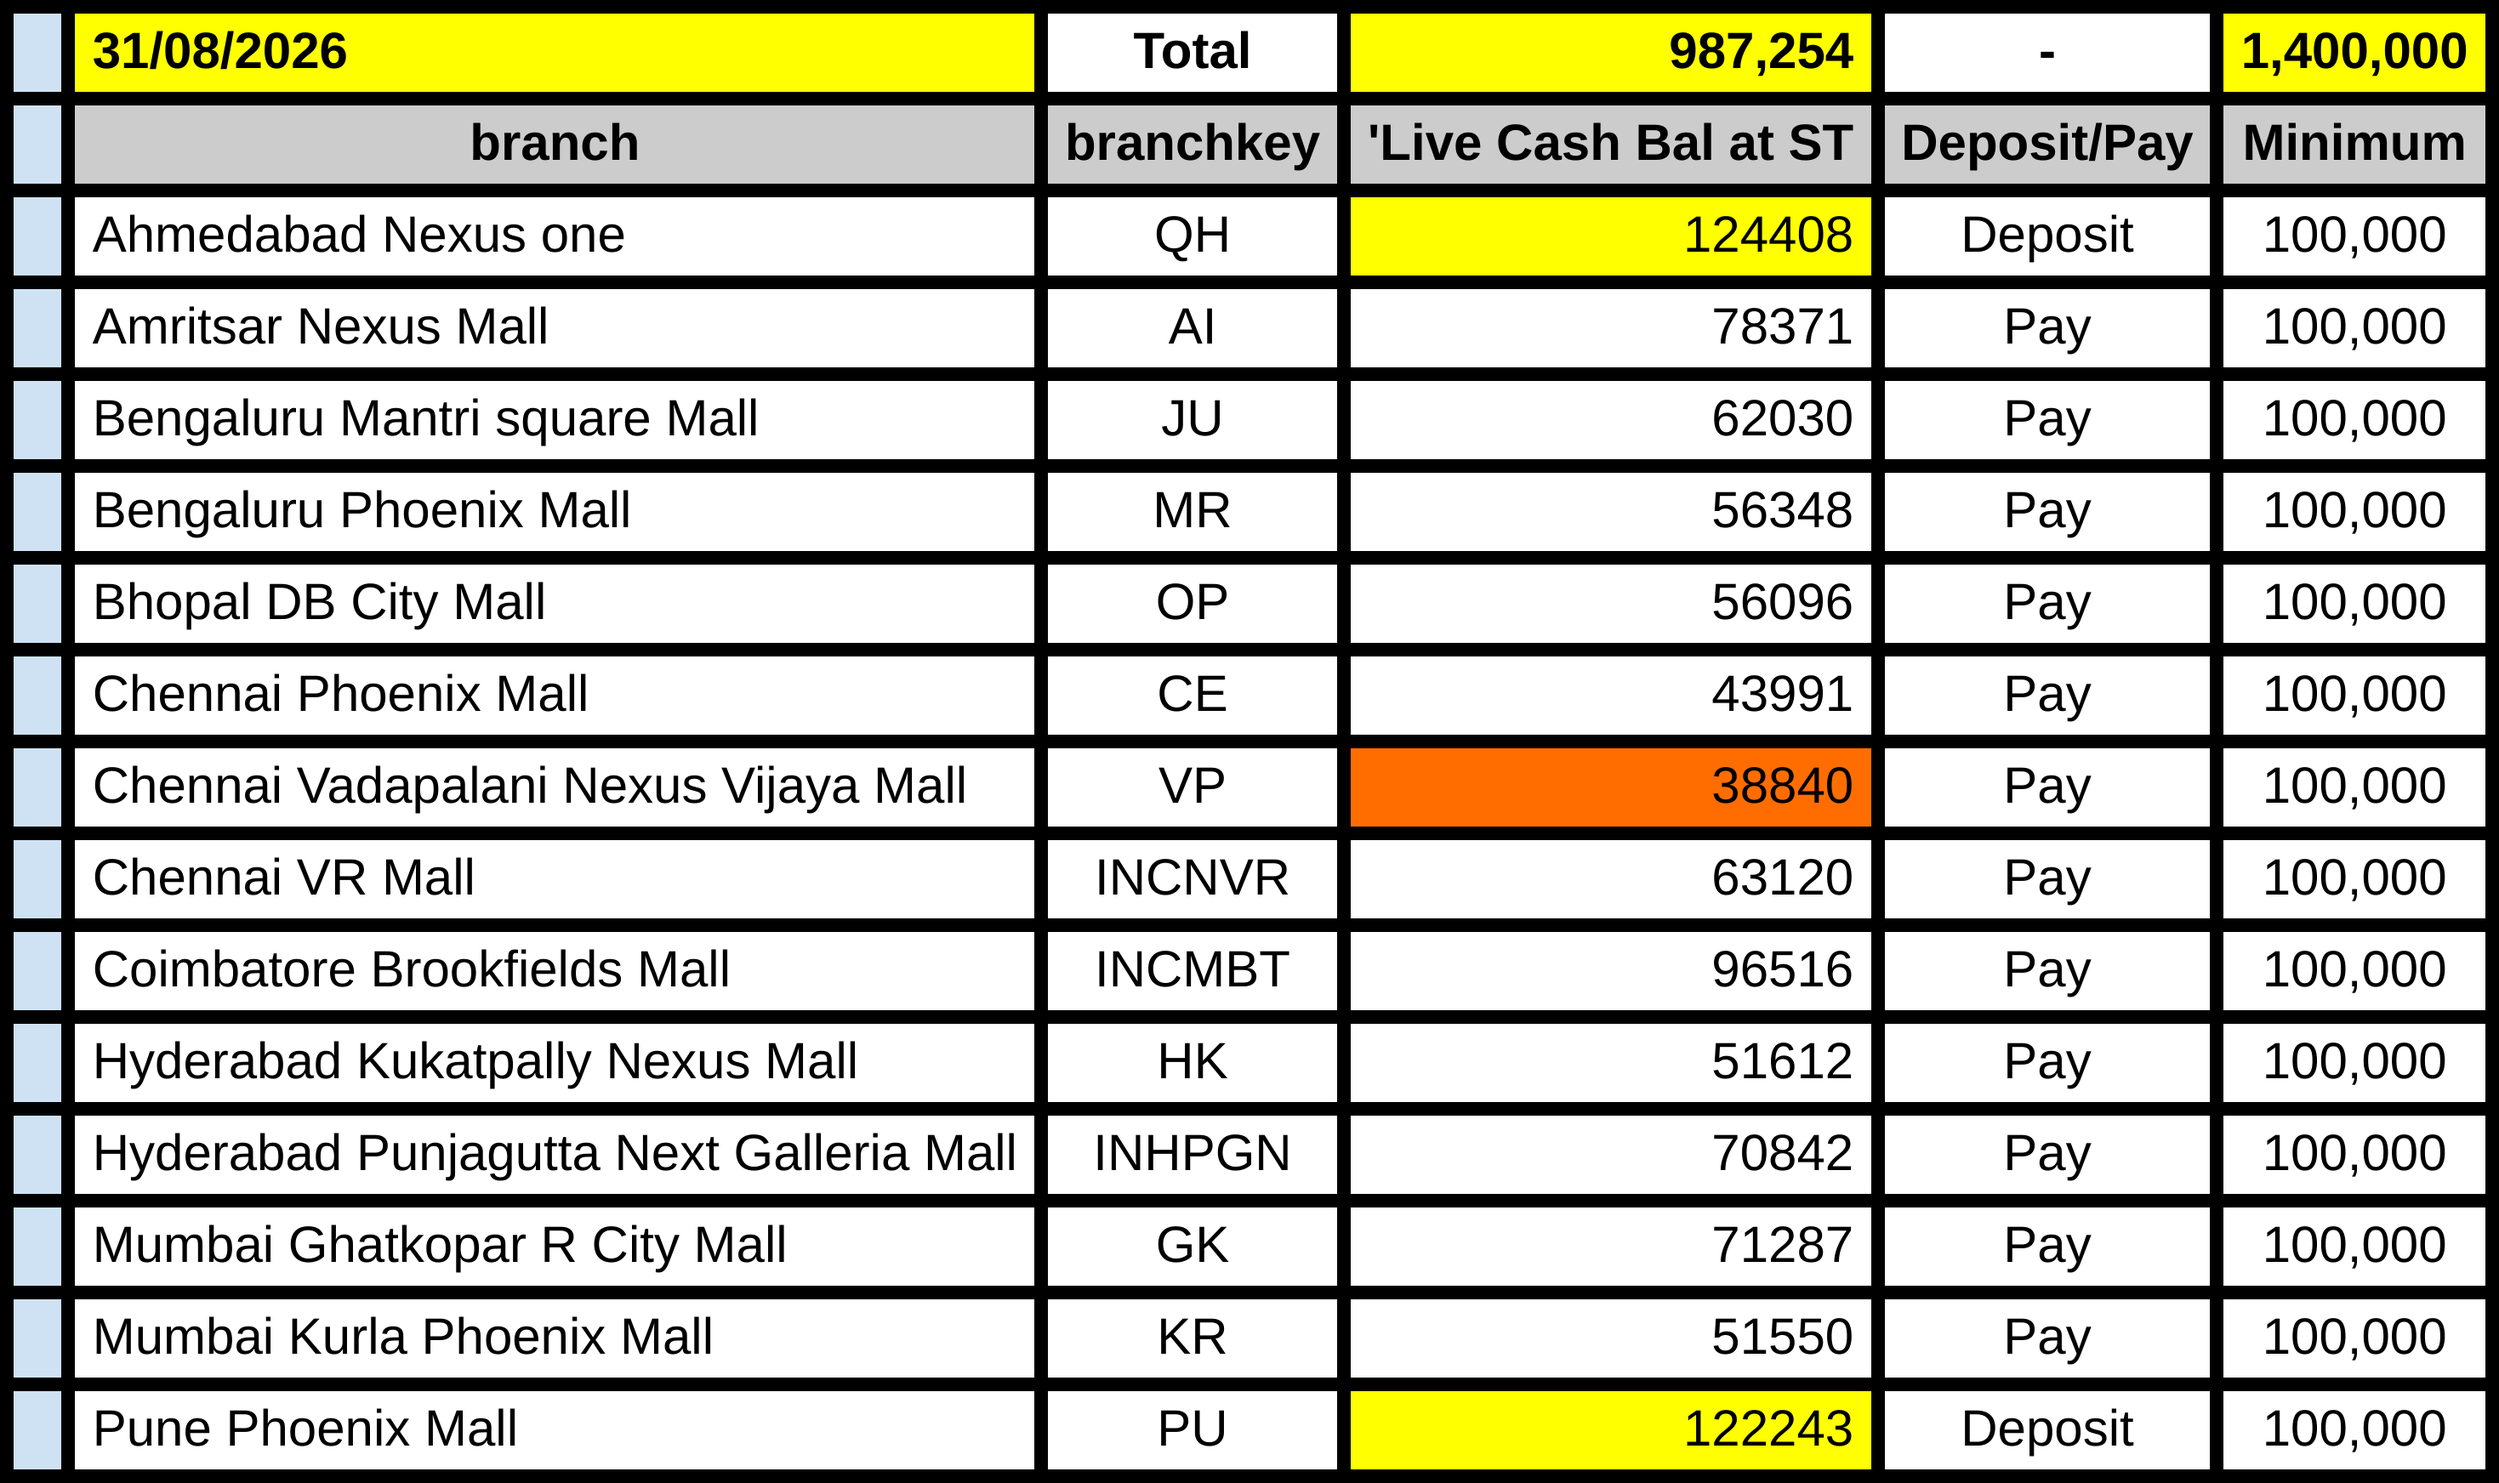
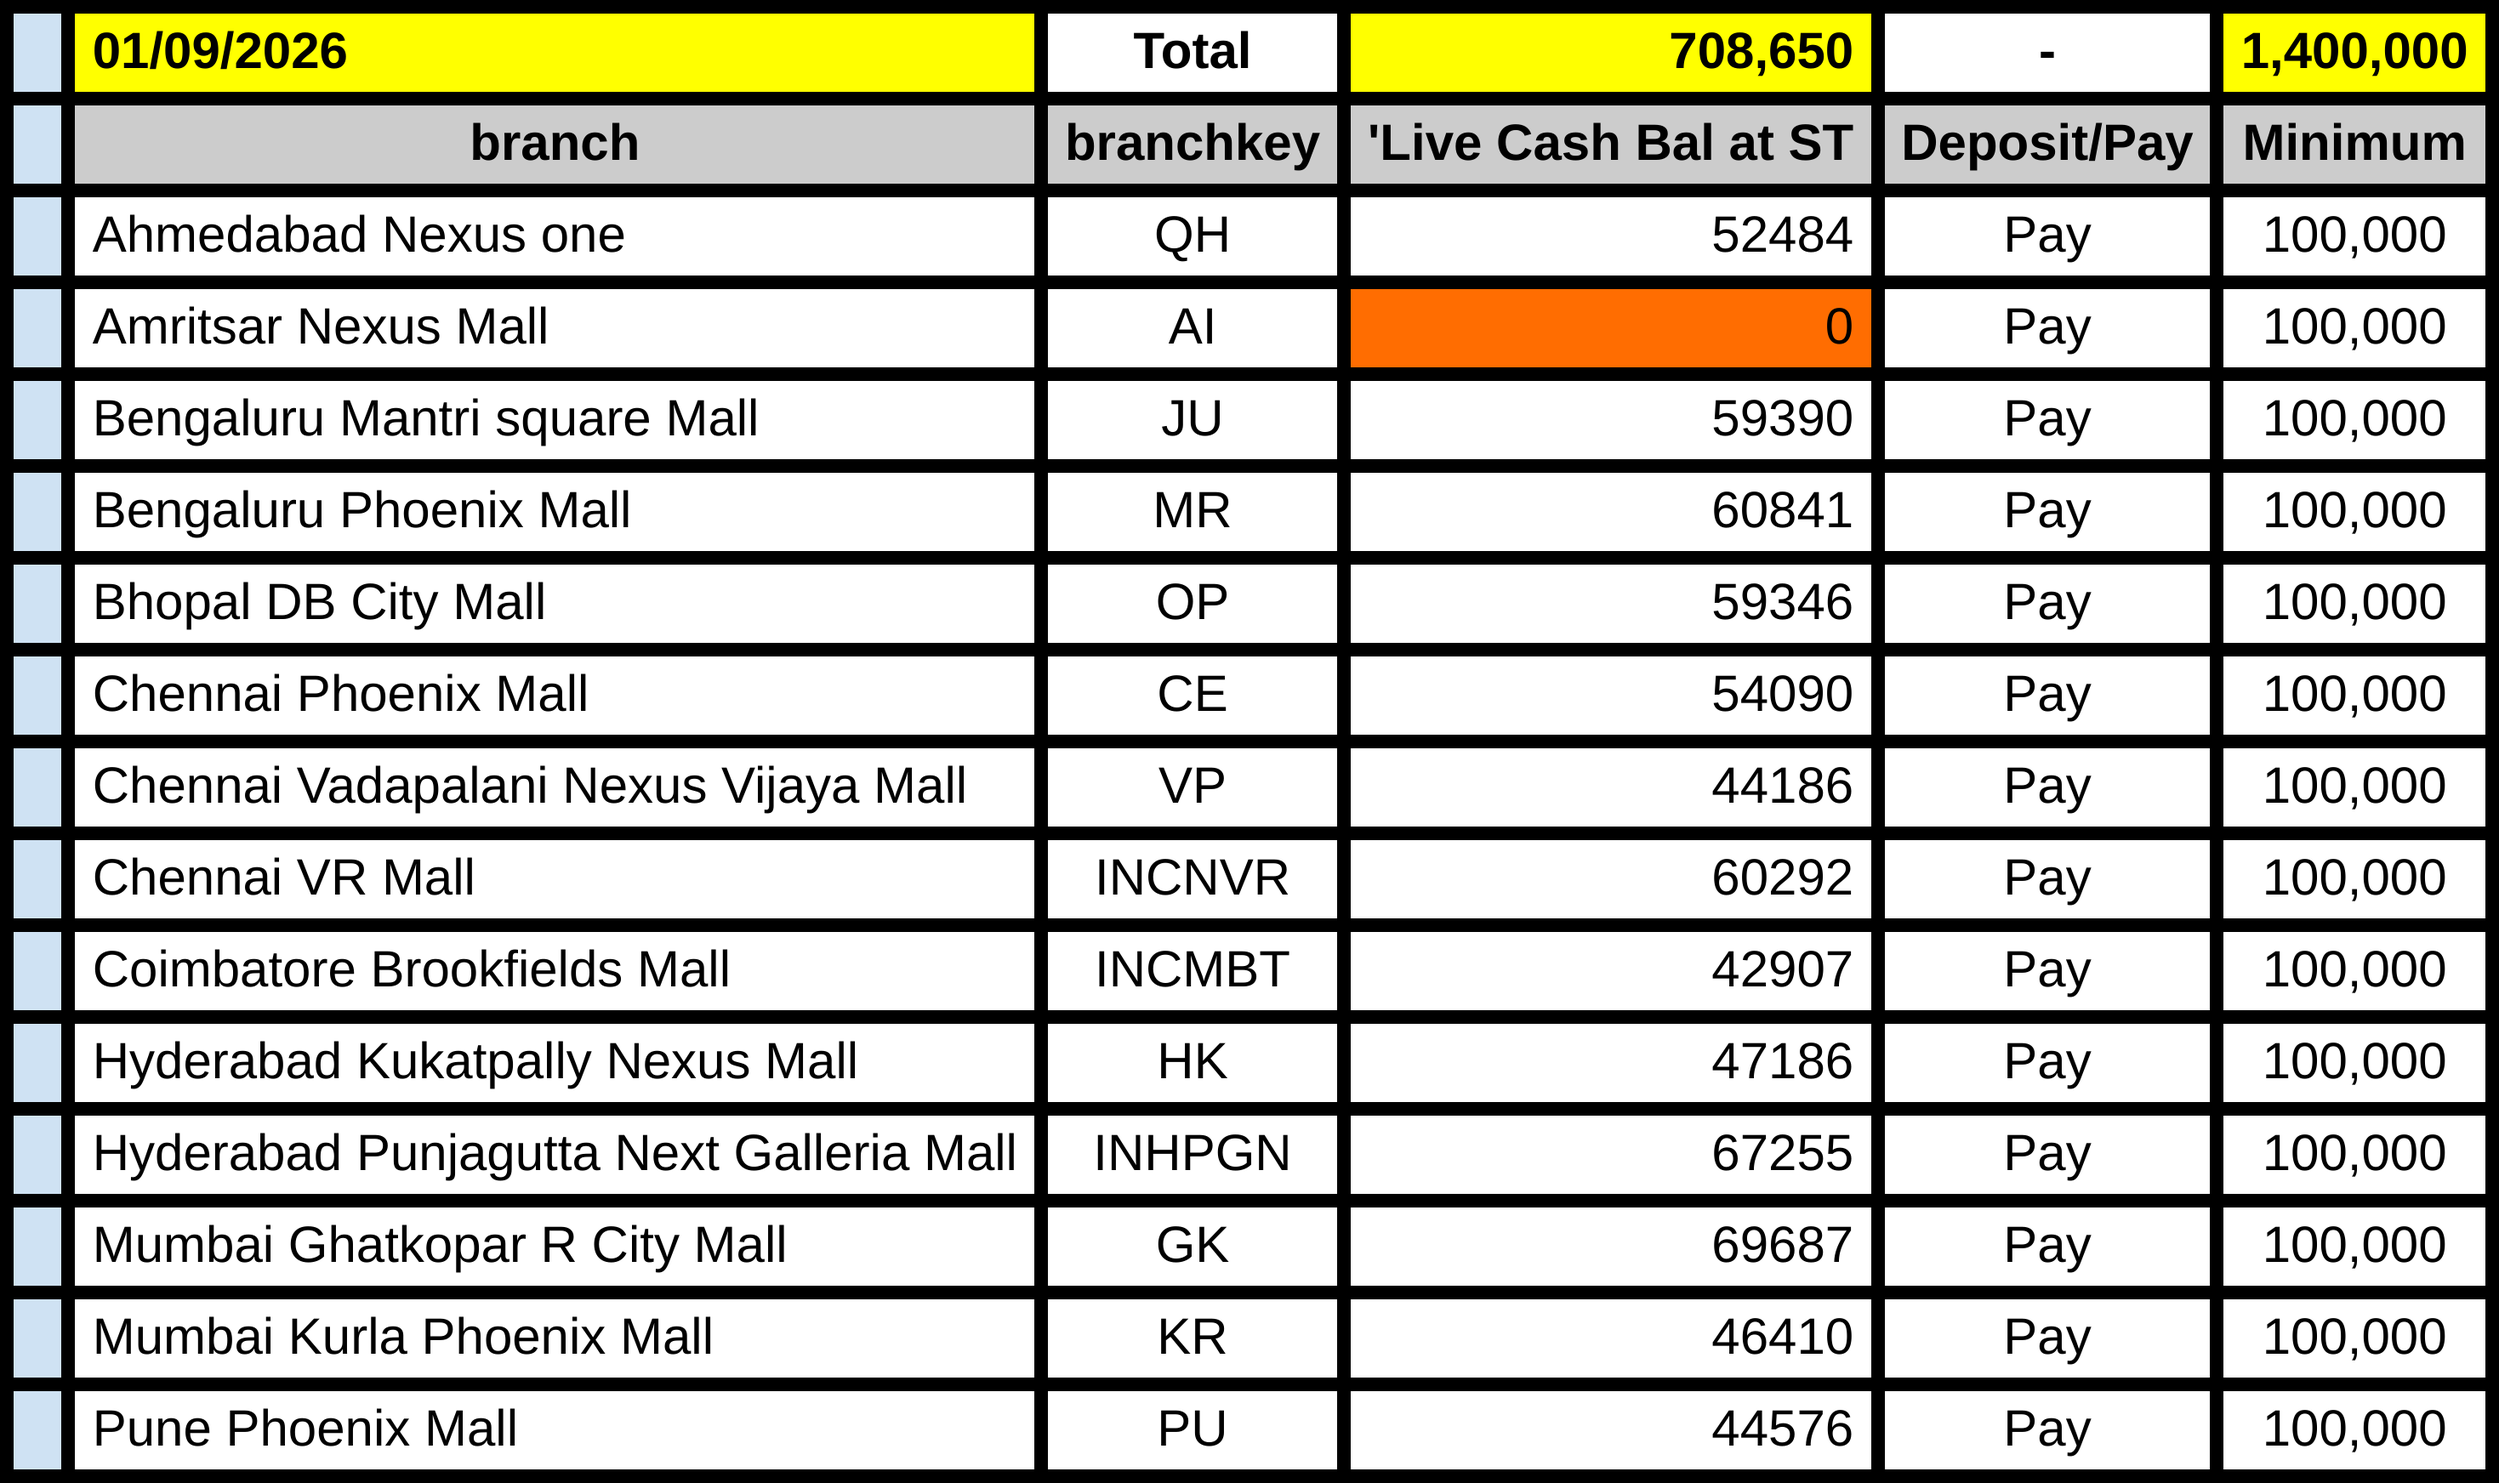
deploy: 1eb6ce62876c9d41067b4594acfaffc291ee4c8b

diff --git a/table.html b/table.html
@@ -35,7 +35,7 @@
           font-family: Arial, sans-serif;
           font-size: 30px;
           white-space: nowrap;
-        ">31/08/2026</td>
+        ">01/09/2026</td>
       
         <td style="
           background-color: #ffffff;
@@ -63,7 +63,7 @@
           font-family: Arial, sans-serif;
           font-size: 30px;
           white-space: nowrap;
-        ">987,254</td>
+        ">708,650</td>
       
         <td style="
           background-color: #ffffff;
@@ -220,7 +220,7 @@
         ">QH</td>
       
         <td style="
-          background-color: #ffff00;
+          background-color: #ffffff;
           color: #000000;
           font-weight: normal;
           font-style: normal;
@@ -231,7 +231,7 @@
           font-family: Arial, sans-serif;
           font-size: 30px;
           white-space: nowrap;
-        ">124408</td>
+        ">52484</td>
       
         <td style="
           background-color: #ffffff;
@@ -245,7 +245,7 @@
           font-family: Arial, sans-serif;
           font-size: 30px;
           white-space: nowrap;
-        ">Deposit</td>
+        ">Pay</td>
       
         <td style="
           background-color: #ffffff;
@@ -304,7 +304,7 @@
         ">AI</td>
       
         <td style="
-          background-color: #ffffff;
+          background-color: #ff6d01;
           color: #000000;
           font-weight: normal;
           font-style: normal;
@@ -315,7 +315,7 @@
           font-family: Arial, sans-serif;
           font-size: 30px;
           white-space: nowrap;
-        ">78371</td>
+        ">0</td>
       
         <td style="
           background-color: #ffffff;
@@ -399,7 +399,7 @@
           font-family: Arial, sans-serif;
           font-size: 30px;
           white-space: nowrap;
-        ">62030</td>
+        ">59390</td>
       
         <td style="
           background-color: #ffffff;
@@ -483,7 +483,7 @@
           font-family: Arial, sans-serif;
           font-size: 30px;
           white-space: nowrap;
-        ">56348</td>
+        ">60841</td>
       
         <td style="
           background-color: #ffffff;
@@ -567,7 +567,7 @@
           font-family: Arial, sans-serif;
           font-size: 30px;
           white-space: nowrap;
-        ">56096</td>
+        ">59346</td>
       
         <td style="
           background-color: #ffffff;
@@ -651,7 +651,7 @@
           font-family: Arial, sans-serif;
           font-size: 30px;
           white-space: nowrap;
-        ">43991</td>
+        ">54090</td>
       
         <td style="
           background-color: #ffffff;
@@ -724,7 +724,7 @@
         ">VP</td>
       
         <td style="
-          background-color: #ff6d01;
+          background-color: #ffffff;
           color: #000000;
           font-weight: normal;
           font-style: normal;
@@ -735,7 +735,7 @@
           font-family: Arial, sans-serif;
           font-size: 30px;
           white-space: nowrap;
-        ">38840</td>
+        ">44186</td>
       
         <td style="
           background-color: #ffffff;
@@ -819,7 +819,7 @@
           font-family: Arial, sans-serif;
           font-size: 30px;
           white-space: nowrap;
-        ">63120</td>
+        ">60292</td>
       
         <td style="
           background-color: #ffffff;
@@ -903,7 +903,7 @@
           font-family: Arial, sans-serif;
           font-size: 30px;
           white-space: nowrap;
-        ">96516</td>
+        ">42907</td>
       
         <td style="
           background-color: #ffffff;
@@ -987,7 +987,7 @@
           font-family: Arial, sans-serif;
           font-size: 30px;
           white-space: nowrap;
-        ">51612</td>
+        ">47186</td>
       
         <td style="
           background-color: #ffffff;
@@ -1071,7 +1071,7 @@
           font-family: Arial, sans-serif;
           font-size: 30px;
           white-space: nowrap;
-        ">70842</td>
+        ">67255</td>
       
         <td style="
           background-color: #ffffff;
@@ -1155,7 +1155,7 @@
           font-family: Arial, sans-serif;
           font-size: 30px;
           white-space: nowrap;
-        ">71287</td>
+        ">69687</td>
       
         <td style="
           background-color: #ffffff;
@@ -1239,7 +1239,7 @@
           font-family: Arial, sans-serif;
           font-size: 30px;
           white-space: nowrap;
-        ">51550</td>
+        ">46410</td>
       
         <td style="
           background-color: #ffffff;
@@ -1312,7 +1312,7 @@
         ">PU</td>
       
         <td style="
-          background-color: #ffff00;
+          background-color: #ffffff;
           color: #000000;
           font-weight: normal;
           font-style: normal;
@@ -1323,7 +1323,7 @@
           font-family: Arial, sans-serif;
           font-size: 30px;
           white-space: nowrap;
-        ">122243</td>
+        ">44576</td>
       
         <td style="
           background-color: #ffffff;
@@ -1337,7 +1337,7 @@
           font-family: Arial, sans-serif;
           font-size: 30px;
           white-space: nowrap;
-        ">Deposit</td>
+        ">Pay</td>
       
         <td style="
           background-color: #ffffff;
